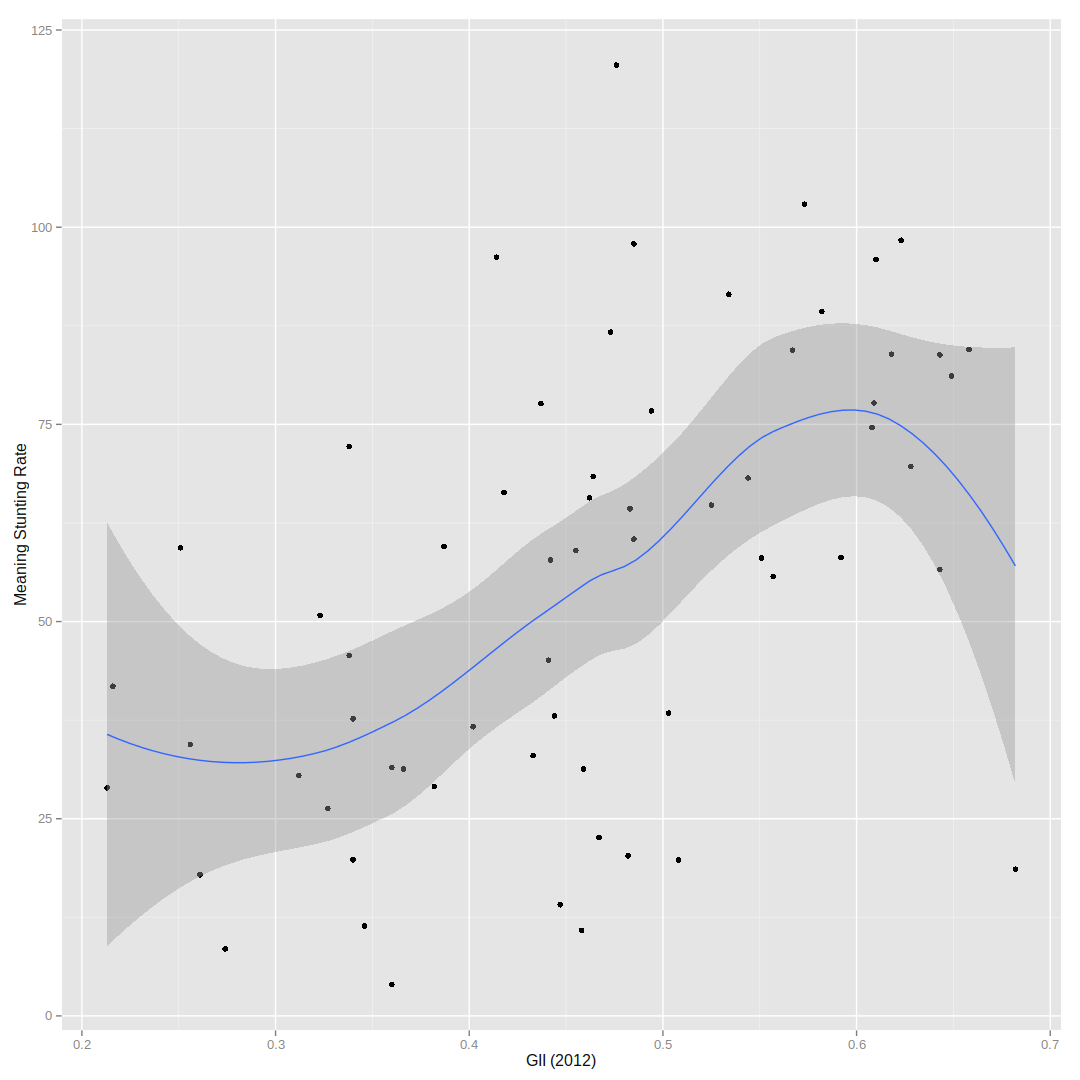
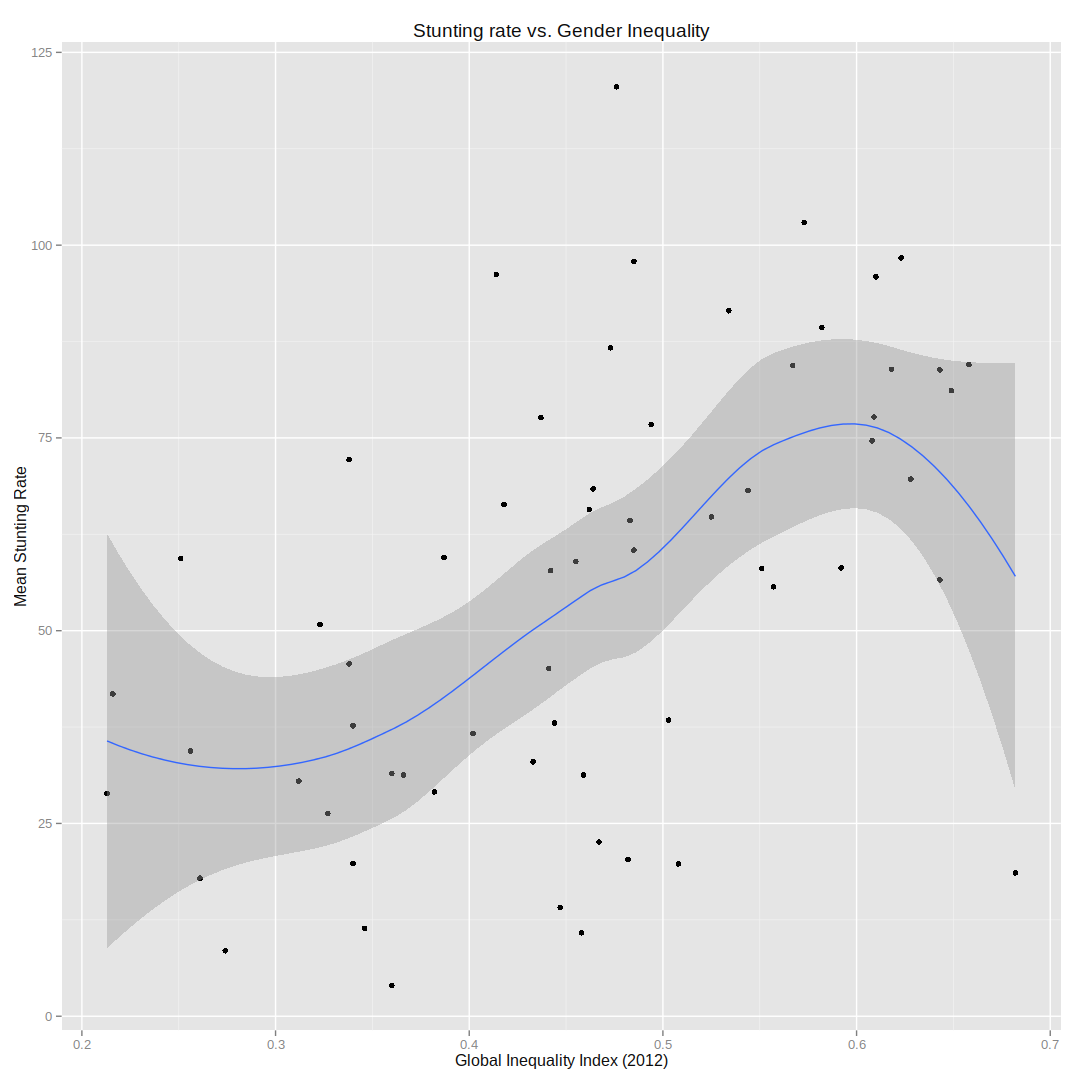
Added biplot to explore relationship between variables and outcome

diff --git a/README.md b/README.md
@@ -125,8 +125,6 @@ The fields contained in the dataset `Stunting3.csv` include:
 
 * Country name
 * 2012 Seats in National Parliament (% female)
-* 2011 Labor Force (female)
-* 2011 Labor Force (male)
 * 2010 Maternal Mortality Ratio
 * Adolescent Fertility Rate
 * 2006-2010 Population with at least secondary education (Female)
@@ -135,18 +133,10 @@ The fields contained in the dataset `Stunting3.csv` include:
 * 2011 Labour force participation rate (Male)
 * 2010 Global Inequality Index (GII)
 * 2012 Global Inequality Index (GII)
-* IFPRI_Global_Hunger_Index_data.Indicator
-* IFPRI_Global_Hunger_Index_data.Year
-* IFPRI_Global_Hunger_Index_data.Data
-* IFPRI_Global_Hunger_Index_data_1.Indicator
-* IFPRI_Global_Hunger_Index_data_1.Year
-* IFPRI_Global_Hunger_Index_data_1.Data
-* IFPRI_Global_Hunger_Index_data_2.Indicator
-* IFPRI_Global_Hunger_Index_data_2.Year
-* IFPRI_Global_Hunger_Index_data_2.Data
-* IFPRI_Global_Hunger_Index_data_3.Indicator
-* IFPRI_Global_Hunger_Index_data_3.Year
-* IFPRI_Global_Hunger_Index_data_3.Data
+* 2013 Global Hunger Index (IFPRI)
+* 2011 Under-five Mortality rate (IFPRI)
+* 2010-2012 Prevalence of undernourishment in the population (IFPRI)
+* 2008-2012 Prevalence of underweight in children under five years (IFPRI)
 * Expr1024 (?)
 * Percent children with stunting (Female)
 * Percent children with stunting (Female)
@@ -154,26 +144,41 @@ The fields contained in the dataset `Stunting3.csv` include:
 
 ```r
 # load cleaned data
-df = tbl_df(read.csv('input/Stunting3.csv'))
+df = tbl_df(read.csv('input/Stunting4.csv'))
 
 # let's make names easy to type..
-colnames(df) = c("name", "seats_parlim_female", "labor_participation_female", 
-                 "labor_participation_male", "maternal_mortality_ratio",
-                 "fertility_rate", "secondary_education_female",
-                 "secondary_education_male", "labor_participation_female2",
-                 "labor_participation_male2", "GII_2010", "GII_2012",
-                 "ifpri_index_ind_0", "ifpri_index_year_0",  "ifpri_index_data_0", 
-                 "ifpri_index_ind_1", "ifpri_index_year_1",  "ifpri_index_data_1", 
-                 "ifpri_index_ind_2", "ifpri_index_year_2",  "ifpri_index_data_2", 
-                 "ifpri_index_ind_3", "ifpri_index_year_3",  "ifpri_index_data_3", 
+colnames(df) = c("country", "seats_parlim_female", "maternal_mortality_ratio",
+                 "adolescent_fertility_rate", "secondary_education_female",
+                 "secondary_education_male", "labor_participation_female",
+                 "labor_participation_male", "GII_2010", "GII_2012",
+                 "ifpri_hunger_index", "ifpri_under5_mortality",
+                 "ifpri_undernourishment", "ifpri_under5_underweight",
                  "Expr1024", "mean_stunting_female", "mean_stunting_male")
 
 # create a combined column
 df = df %>% mutate(mean_stunting_all = mean_stunting_female + mean_stunting_male)
+
+# create a version which includes only those countries that have all data
+# fields populated
+df_complete = df[complete.cases(df),]
 ```
 
 Visualization
 -------------
+
+### How do the predictors relate to one another? (In progress...)
+
+
+```r
+library(bpca)
+
+plot(bpca(df_complete[-1]),
+     var.factor=.5,
+     obj.names=TRUE,
+     obj.labels=df_complete$country)
+```
+
+![plot of chunk biplot](figure/biplot.png) 
 
 ### Mean Stunting Rate vs. Global Inequality Index
 
@@ -182,8 +187,9 @@ Visualization
 library(ggplot2)
 
 ggplot(df, aes(GII_2012, mean_stunting_all)) + geom_point() + geom_smooth() +
-    xlab('GII (2012)') +
-    ylab('Meaning Stunting Rate')
+    xlab('Global Inequality Index (2012)') +
+    ylab('Mean Stunting Rate') + 
+    ggtitle('Stunting rate vs. Gender Inequality')
 ```
 
 ```
@@ -196,4 +202,42 @@ ggplot(df, aes(GII_2012, mean_stunting_all)) + geom_point() + geom_smooth() +
 ```
 
 ![plot of chunk stunting_vs_gii](figure/stunting_vs_gii.png) 
+
+System Information
+------------------
+
+
+```r
+sessionInfo()
+```
+
+```
+## R version 3.1.0 (2014-04-10)
+## Platform: x86_64-unknown-linux-gnu (64-bit)
+## 
+## locale:
+##  [1] LC_CTYPE=en_US.UTF-8       LC_NUMERIC=C              
+##  [3] LC_TIME=en_US.UTF-8        LC_COLLATE=en_US.UTF-8    
+##  [5] LC_MONETARY=en_US.UTF-8    LC_MESSAGES=en_US.UTF-8   
+##  [7] LC_PAPER=en_US.UTF-8       LC_NAME=C                 
+##  [9] LC_ADDRESS=C               LC_TELEPHONE=C            
+## [11] LC_MEASUREMENT=en_US.UTF-8 LC_IDENTIFICATION=C       
+## 
+## attached base packages:
+## [1] stats     graphics  grDevices utils     datasets  methods   base     
+## 
+## other attached packages:
+##  [1] bpca_1.2-2           rgl_0.93.996         scatterplot3d_0.3-35
+##  [4] ggplot2_1.0.0        dplyr_0.2            knitr_1.6.5         
+##  [7] rmarkdown_0.2.49     knitrBootstrap_1.0.0 vimcom.plus_1.0-0   
+## [10] setwidth_1.0-3       colorout_1.0-3      
+## 
+## loaded via a namespace (and not attached):
+##  [1] assertthat_0.1   colorspace_1.2-4 digest_0.6.4     evaluate_0.5.5  
+##  [5] formatR_0.10     grid_3.1.0       gtable_0.1.2     htmltools_0.2.4 
+##  [9] labeling_0.2     magrittr_1.0.1   markdown_0.7     MASS_7.3-31     
+## [13] mime_0.1.1       munsell_0.4.2    parallel_3.1.0   plyr_1.8.1      
+## [17] proto_0.3-10     Rcpp_0.11.1      reshape2_1.4     scales_0.2.4    
+## [21] stringr_0.6.2    tools_3.1.0      yaml_2.1.11
+```
 
